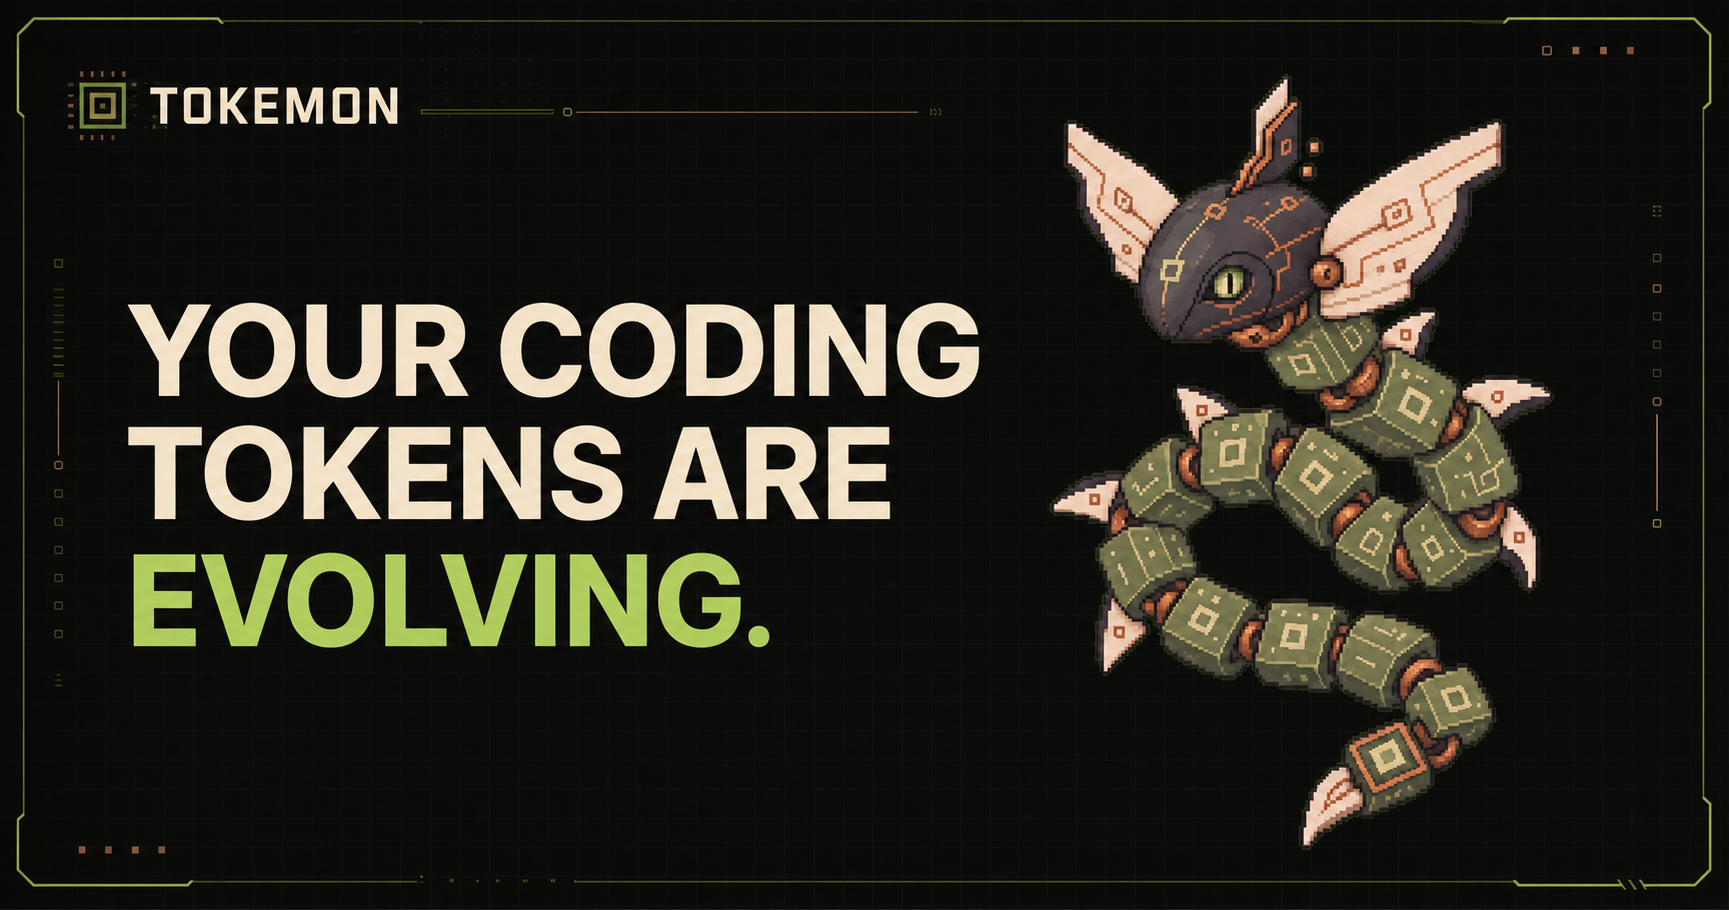
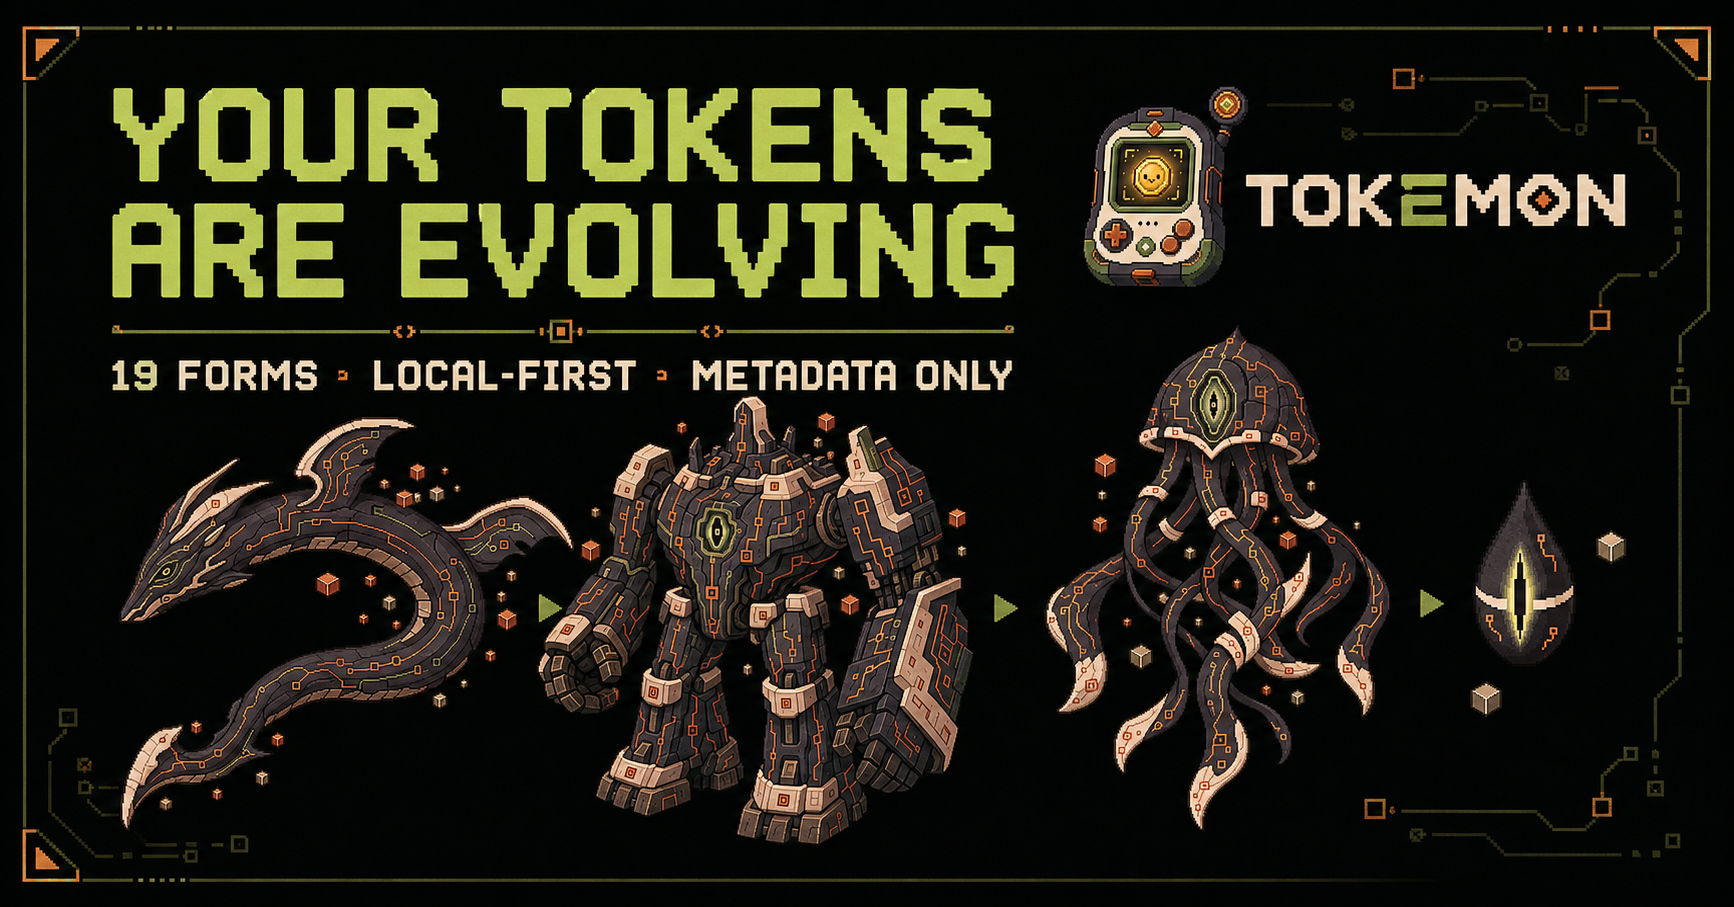
Sync site with expanded evolution ladder

diff --git a/app/globals.css b/app/globals.css
@@ -62,6 +62,8 @@ code b { color:var(--acid); }
 .forms { display:grid; grid-template-columns:repeat(4,1fr); margin-top:70px; border:1px solid var(--line); }
 .form { min-width:0; overflow:hidden; }
 .form+.form { border-left:1px solid var(--line); }
+.form:nth-child(4n+1):not(:first-child) { border-left:0; }
+.form:nth-child(n+5) { border-top:1px solid var(--line); }
 .formMeta { display:flex; justify-content:space-between; padding:13px; color:var(--faint); font:9px ui-monospace,SFMono-Regular,Menlo,monospace; }
 .formMeta span:first-child { font-family:var(--font-display); font-size:9px; font-weight:600; letter-spacing:.08em; }
 .formMeta span:last-child { color:var(--muted); }
@@ -95,6 +97,6 @@ footer { border-top:1px solid var(--line); background:#090a08; }
 .footerBrand { display:flex; align-items:center; gap:14px; }
 .footerBrand strong,.footerBrand span { display:block; }.footerBrand strong { font-family:var(--font-display); font-weight:650; letter-spacing:.1em; }.footerBrand span { margin-top:4px; color:var(--faint); font:8px ui-monospace,SFMono-Regular,Menlo,monospace; }
 .footerInner>p { color:var(--faint); font-size:10px; line-height:1.6; }.footerInner>a { color:var(--muted); font:10px ui-monospace,SFMono-Regular,Menlo,monospace; }
-@media(max-width:900px){.navLinks{display:none}.hero{grid-template-columns:1fr;gap:48px}.heroArtifact{min-height:520px}.steps,.forms{grid-template-columns:1fr 1fr}.step:nth-child(3){grid-column:1/-1;border-left:0;border-top:1px solid var(--line)}.form:nth-child(3){border-left:0;border-top:1px solid var(--line)}.form:nth-child(4){border-top:1px solid var(--line)}.principles,.about{grid-template-columns:1fr;gap:55px}.footerInner{grid-template-columns:1fr 1fr}.footerInner>p{grid-column:1/-1;grid-row:2;padding-bottom:30px}}
-@media(max-width:600px){.shell{width:min(100% - 28px,520px)}.nav{height:68px}.navCta{display:none}.hero{min-height:0;padding-block:62px}.heroActions{align-items:stretch;flex-direction:column}.heroActions a{text-align:center}.trustRow{flex-wrap:wrap}.heroArtifact{min-height:390px}.section{padding-block:82px}.steps,.forms,.splitIntro,.dataGrid{grid-template-columns:1fr}.step+.step,.form+.form,.dataGrid article+article{border-left:0;border-top:1px solid var(--line)}.step:nth-child(3){grid-column:auto}.form:nth-child(4){border-left:0}.step h3{margin-top:38px}.splitIntro{gap:30px}.compat>div{align-items:start;flex-direction:column}.about{gap:28px}.footerInner{display:flex;align-items:start;flex-direction:column;gap:26px;padding-block:40px}.footerInner>p{order:3;padding:0}.artifactBottom strong{font-size:11px}}
+@media(max-width:900px){.navLinks{display:none}.hero{grid-template-columns:1fr;gap:48px}.heroArtifact{min-height:520px}.steps,.forms{grid-template-columns:1fr 1fr}.step:nth-child(3){grid-column:1/-1;border-left:0;border-top:1px solid var(--line)}.form:nth-child(odd):not(:first-child){border-left:0}.form:nth-child(n+3){border-top:1px solid var(--line)}.principles,.about{grid-template-columns:1fr;gap:55px}.footerInner{grid-template-columns:1fr 1fr}.footerInner>p{grid-column:1/-1;grid-row:2;padding-bottom:30px}}
+@media(max-width:600px){.shell{width:min(100% - 28px,520px)}.nav{height:68px}.navCta{display:none}.hero{min-height:0;padding-block:62px}.heroActions{align-items:stretch;flex-direction:column}.heroActions a{text-align:center}.trustRow{flex-wrap:wrap}.heroArtifact{min-height:390px}.section{padding-block:82px}.steps,.forms,.splitIntro,.dataGrid{grid-template-columns:1fr}.step+.step,.form+.form,.dataGrid article+article{border-left:0;border-top:1px solid var(--line)}.step:nth-child(3){grid-column:auto}.step h3{margin-top:38px}.splitIntro{gap:30px}.compat>div{align-items:start;flex-direction:column}.about{gap:28px}.footerInner{display:flex;align-items:start;flex-direction:column;gap:26px;padding-block:40px}.footerInner>p{order:3;padding:0}.artifactBottom strong{font-size:11px}}
 @media(prefers-reduced-motion:reduce){html{scroll-behavior:auto}*,*::before,*::after{animation:none!important;transition:none!important}}

diff --git a/app/page.tsx b/app/page.tsx
@@ -1,8 +1,12 @@
 const forms = [
   { stage: "00", name: "The first signal", image: "/tokemon/stage-00.png" },
-  { stage: "04", name: "Patterns emerge", image: "/tokemon/stage-04.png" },
   { stage: "08", name: "A serious appetite", image: "/tokemon/stage-08.png" },
-  { stage: "12", name: "The final form", image: "/tokemon/stage-12.png" },
+  { stage: "13", name: "Inference Leviathan", image: "/tokemon/stage-13.png" },
+  { stage: "14", name: "Parameter Colossus", image: "/tokemon/stage-14.png" },
+  { stage: "15", name: "World Weaver", image: "/tokemon/stage-15.png" },
+  { stage: "16", name: "Cosmic Architect", image: "/tokemon/stage-16.png" },
+  { stage: "17", name: "Universe Engine", image: "/tokemon/stage-17.png" },
+  { stage: "18", name: "The Singularity", image: "/tokemon/stage-18.png" },
 ];
 
 export default function Home() {
@@ -64,8 +68,8 @@ export default function Home() {
       <section className="artifactSection" id="artifacts">
         <div className="section shell">
           <div className="sectionIntro splitIntro">
-            <div><p className="eyebrow">02 / EVOLUTION ARCHIVE</p><h2>One signal.<br /><em>Thirteen forms.</em></h2></div>
-            <p>Every power-of-ten milestone reveals another original form. The silhouette stays familiar. The details get increasingly unreasonable.</p>
+            <div><p className="eyebrow">02 / EVOLUTION ARCHIVE</p><h2>One signal.<br /><em>Nineteen forms.</em></h2></div>
+            <p>Powers of ten carry the creature to one billion tokens. After that, denser 1–2–5 checkpoints keep the late forms moving: leviathan, colossus, weaver, architect, engine, singularity.</p>
           </div>
           <div className="forms">
             {forms.map((form) => <article className="form" key={form.stage}>
@@ -74,7 +78,7 @@ export default function Home() {
               <div className="formTicks">+ + + + + + + + + + + +</div>
             </article>)}
           </div>
-          <p className="archiveNote">Four signals recovered from the complete 13-form archive.</p>
+          <p className="archiveNote">Eight signals recovered from the complete 19-form archive · final form at 1T tokens.</p>
         </div>
       </section>
 
